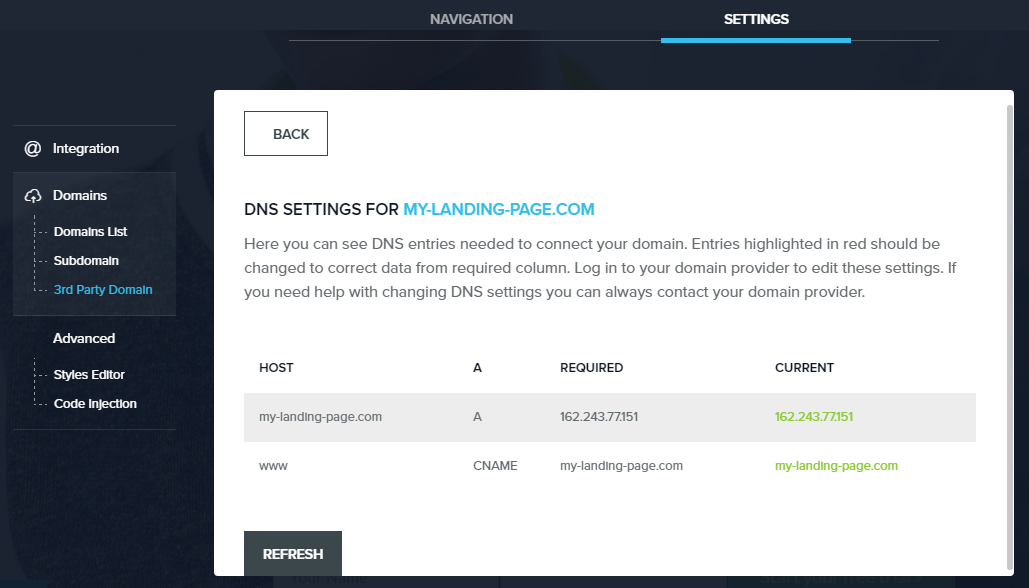
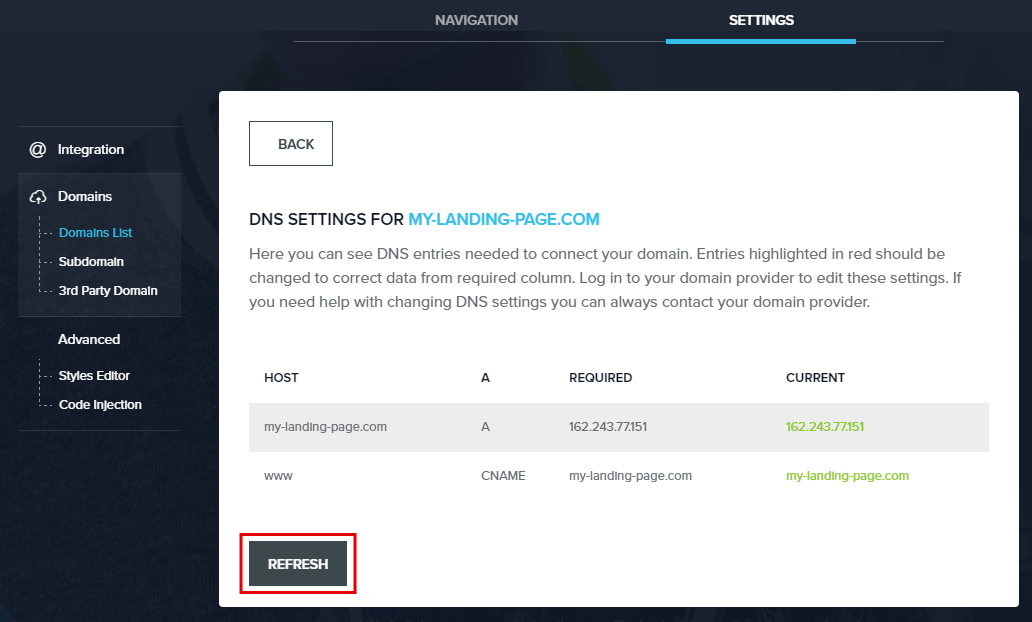
...

diff --git a/publishing/third-party-domains/godaddy/index.rst b/publishing/third-party-domains/godaddy/index.rst
@@ -10,30 +10,6 @@ If you purchased a domain from GoDaddy, you can use it for your BitBlox Landing 
     :local:
     :backlinks: top
 
-
-Get BitBlox records
-------
-
-1. Open the **Page Panel** in your project. Click **3rd Party Domain** tab
-
-    .. class:: screenshot
-
-		|bitblox-click-3-rd-party-domain|
-
-2. In the **Domain Name** box enter the full domain name you want to link, and then click **Connect Domain** button
-
-
-    .. class:: screenshot
-
-		|bitblox-connect-domain|
-    
-3. After you connect your domain, a new panel will open with the recors you need to enter in your provider account so your domain connects to BitBlox.
-
-	
-    .. class:: screenshot
-
-		|bitblox-dns-settings|
-	
 	
 Set up your domain with GoDaddy 
 ------
@@ -82,7 +58,34 @@ Set up your domain with GoDaddy
 		|godaddy-enter-www|
 
 
-10. Go back into your BitBlox account, and click **Refresh** button until current data will be on green color.
+10. In your BitBlox account, click **Edit Page** on your landing page. 
+
+     .. class:: screenshot
+
+		|bitblox-click-edit-page|
+
+11. Open the **Page Panel**, click **Settings** tab and then click **3rd Party Domain** tab
+
+
+    .. class:: screenshot
+
+		|bitblox-click-3-rd-party-domain|
+
+12. In the **Domain Name** box enter the full domain name you want to link, and then click **Connect Domain** button
+
+
+    .. class:: screenshot
+
+		|bitblox-connect-domain|
+    
+13. After you connect your domain, a new panel will open with the records you need to enter in your provider account so your domain connects to BitBlox.
+
+	
+    .. class:: screenshot
+
+		|bitblox-dns-settings|
+	
+14. After changing the records in your domain provider, return to BitBlox **Domain List** and click **Refresh** button. If your records are enetered correctly, the **Current Data** will be in green color.
 
     .. class:: screenshot
 
@@ -132,13 +135,46 @@ Set up your subdomain with GoDaddy
 		|godaddy-enter-subdomain|	
 
 		
-9. Claim your custom domain in BitBlox [LINK]
 
-    .. note::
+9. In your BitBlox account, click **Edit Page** on your landing page. 
+
+     .. class:: screenshot
+
+		|bitblox-click-edit-page|
+
+10. Open the **Page Panel**, click **Settings** tab and then click **3rd Party Domain** tab
+
+
+    .. class:: screenshot
+
+		|bitblox-click-3-rd-party-domain|
+
+11. In the **Domain Name** box enter the full domain name you want to link, and then click **Connect Domain** button
+
+
+    .. class:: screenshot
+
+		|bitblox-subdomain-click-connect-domain|
+    
+12. After you connect your domain, a new panel will open with the records you need to enter in your provider account so your domain connects to BitBlox.
+
+	
+    .. class:: screenshot
+
+		|bitblox-subdomain-dns-settings|
+	
+13. After changing the records in your domain provider, return to BitBlox **Domain List** and click **Refresh** button. If your records are enetered correctly, the **Current Data** will be in green color.
+
+    .. class:: screenshot
+
+		|bitblox-subdomain-refresh|
+
+		
+.. note::
 
 	After you've claimed your domain, it can take up to 48 hours for changes to take effect. If it takes more than 48 hours, you should contact your custom domain provider.
+				
 		
-
 Getting more help
 ------
 
@@ -154,6 +190,10 @@ For more help with settings in your GoDaddy account, contact their `support team
 .. |godaddy-add-new-record-subdomain| image:: _images/godaddy-add-new-record-subdomain.png
 .. |godaddy-enter-subdomain| image:: _images/godaddy-enter-subdomain.png
 .. |bitblox-click-3-rd-party-domain| image:: _images/bitblox-click-3-rd-party-domain.png
+.. |bitblox-subdomain-click-connect-domain| image:: _images/bitblox-subdomain-click-connect-domain.png
+.. |bitblox-subdomain-dns-settings| image:: _images/bitblox-subdomain-dns-settings.png
+.. |bitblox-click-edit-page| image:: _images/bitblox-click-edit-page.png
+.. |bitblox-subdomain-refresh| image:: _images/bitblox-subdomain-refresh.png
 .. |bitblox-connect-domain| image:: _images/bitblox-connect-domain.png
 .. |bitblox-dns-settings| image:: _images/bitblox-dns-settings.png
 .. |bitblox-click-refresh| image:: _images/bitblox-click-refresh.png
